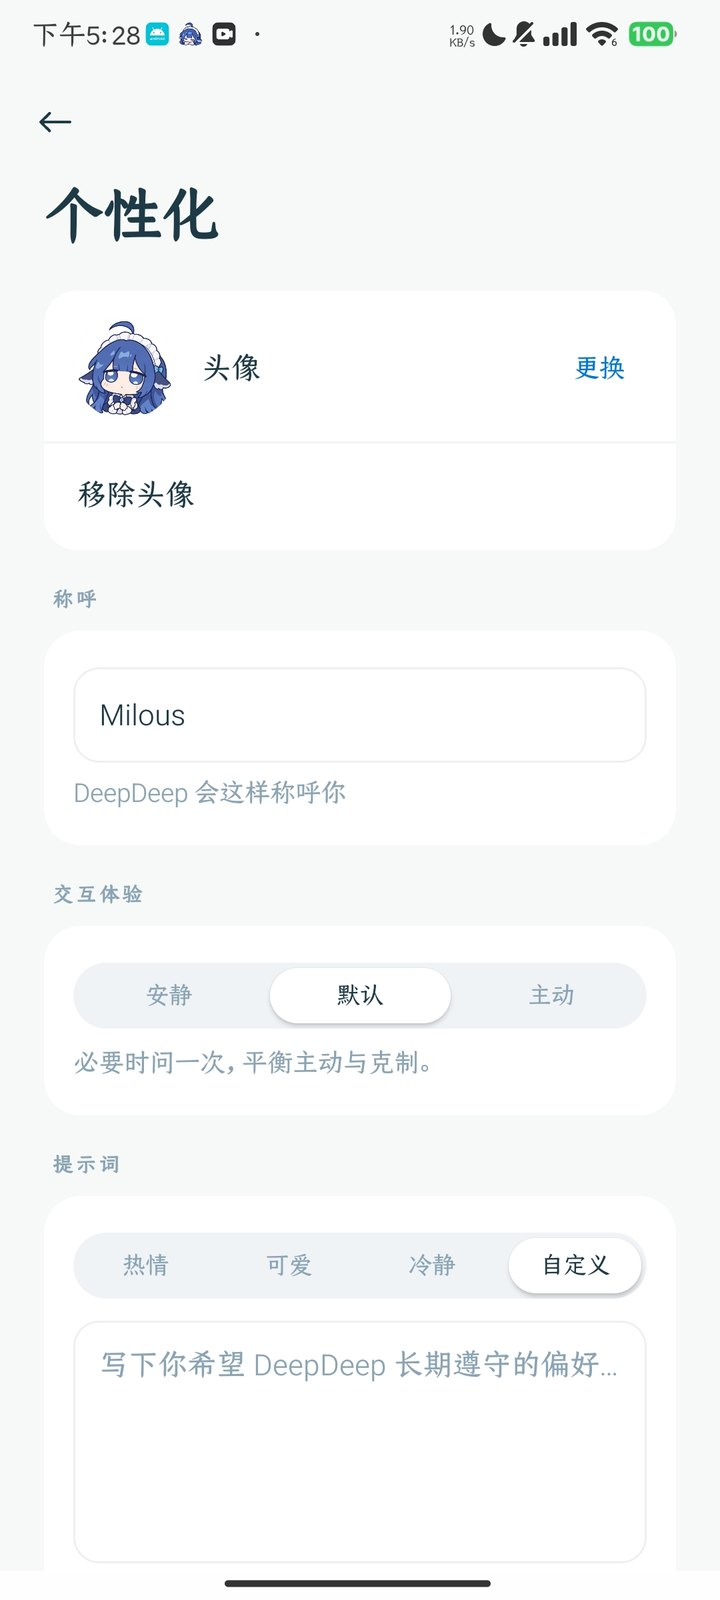
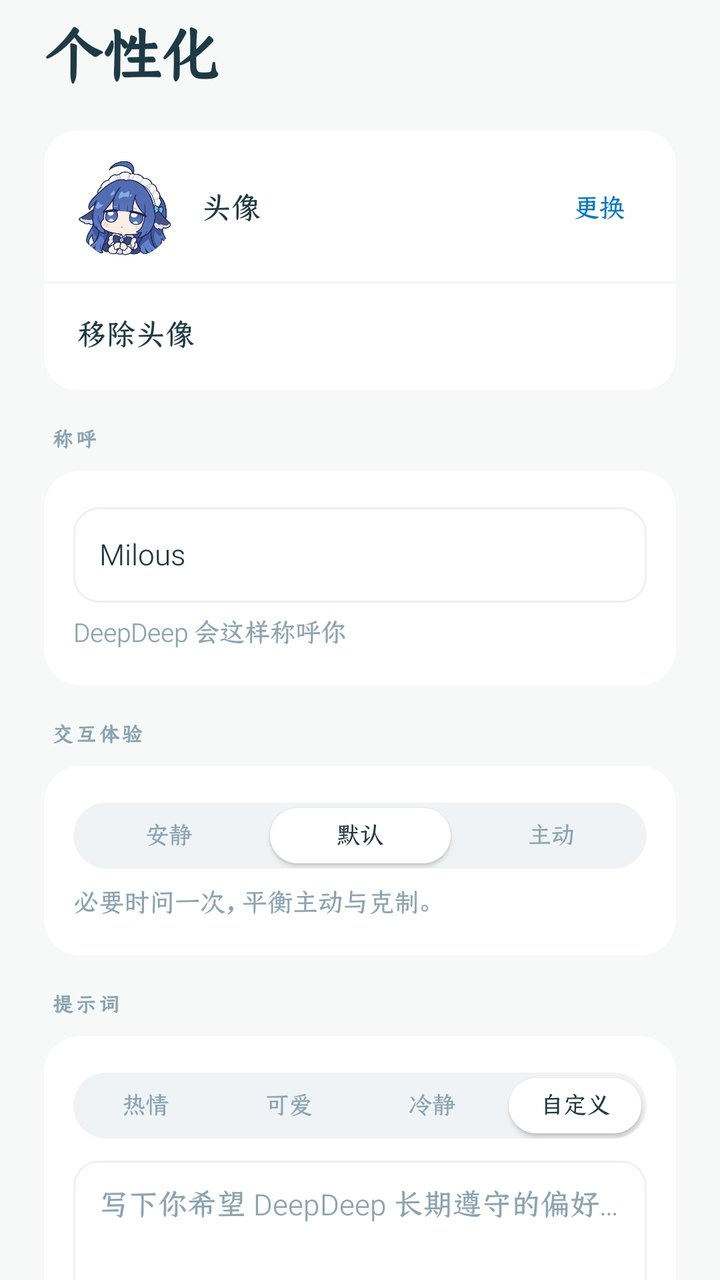
docs: 用视频卡片重排功能介绍

diff --git a/README.md b/README.md
@@ -87,133 +87,78 @@ adb install -r DeepDeep-1.0.0.apk
 
 ## 功能
 
-### Agent 运行时
-
-Agent 循环、工具调度、会话存储与插件宿主均在 App 进程内运行。模型可以调用文件、命令、屏幕、日历、网页等工具；长任务通过 `job_start` 转为后台任务，定时任务使用五段 cron 并绑定当前会话。MCP 工具通过 `tool_search` 按需加载，避免将全部 schema 注入上下文。
-
-- **工具**：读写文件、执行命令、操作屏幕、读写日历、搜索网页。失败会重试，长任务可以转到后台。
-- **技能**：以 `SKILL.md` 描述流程，按需加载；也可以让 Agent 根据任务编写新技能。
-- **自动化**：后台任务、五段 cron 定时任务、会话级目标，以及「帮我盯」这类轮询任务。
-- **MCP**：支持 Streamable HTTP 与 OAuth；工具按需加载。
-- **会话**：会话以 JSONL 保存；支持置顶、归档、重命名与单会话导出。
-
-<p align="center">
-  <a href="https://github.com/Sadami3066/DeepDeep/releases/download/demo-20261109/deepdeep-monitor.mp4"><img src="docs/media/demo/agent-monitor.gif" width="320" alt="DeepDeep 在对话中查询场馆空位并创建后台任务" /></a><br />
-  <sub>在对话中查询场馆空位并创建轮询任务；工具调用、运行状态与结果都保留在会话中。点击图片查看完整视频。</sub>
-</p>
-
-### Android 系统集成
-
-权限分为普通、无线调试与 Root 三档。普通档提供 `bash`、文件与网络；无线调试增加 `adb_shell`，可以操作屏幕和系统设置；Root 档增加 `root_shell`。屏幕操作默认关闭，开启后还需要对应的后端实际可用，`screen_*` 工具才会出现。
-
-Agent 默认在后台虚拟屏中运行应用，不抢占当前主屏；需要操作主屏时，必须显式指定 `target=main`。虚拟屏连续 15 分钟没有 Agent 操作会自动关闭。支付、密码等受保护页面禁止截图，Agent 会把控制权交还给你。
-
 <table>
 <tr>
-<td width="55%" align="center"><a href="https://github.com/Sadami3066/DeepDeep/releases/download/demo-20261109/deepdeep-phone-control.mp4"><img src="docs/media/demo/phone-operation.gif" width="300" alt="DeepDeep 在悬浮窗中操作其他应用" /></a><br /><sub>在悬浮窗中启动虚拟屏、输入文字，并切换到其他应用完成操作。点击查看完整视频。</sub></td>
-<td width="45%" align="center"><img src="docs/media/shots/settings.jpg" width="220" alt="DeepDeep 权限与运行环境设置" /><br /><sub>权限与运行环境</sub></td>
+<td width="33%" valign="top" align="center">
+
+https://github.com/user-attachments/assets/148208b2-11de-4ea5-a3a0-0b0378e6df34
+
+<b>Agent 运行时</b><br />
+<sub>工具、MCP、技能与后台任务在同一个会话中运行。</sub>
+</td>
+<td width="33%" valign="top" align="center">
+
+https://github.com/user-attachments/assets/f20ce2ce-26e9-4f7c-8696-dea81d0a74e1
+
+<b>Android 系统集成</b><br />
+<sub>虚拟屏、悬浮窗、系统助手与三档权限。</sub>
+</td>
+<td width="33%" valign="top" align="center">
+
+https://github.com/user-attachments/assets/fd8eba76-f19e-477a-95c7-8c1d1609198d
+
+<b>小程序</b><br />
+<sub>Agent 现场生成 HTML 应用，可保存数据并添加到桌面。</sub>
+</td>
+</tr>
+<tr>
+<td width="33%" valign="top" align="center">
+
+https://github.com/user-attachments/assets/6783519b-5f93-46d6-ad54-86a8e1350016
+
+<b>万能扫一扫</b><br />
+<sub>同时识别多个二维码，按内容跳转对应应用。</sub>
+</td>
+<td width="33%" valign="top" align="center">
+
+https://github.com/user-attachments/assets/b712257f-c700-43c3-ac4e-6fd829c6e24a
+
+<b>远程连接</b><br />
+<sub>连接电脑上的 DSH，局域网优先，证书固定。</sub>
+</td>
+<td width="33%" valign="top" align="center">
+<img src="docs/media/shots/personalization.jpg" width="100%" alt="DeepDeep 个性化设置" /><br />
+<b>记忆</b><br />
+<sub>分层记忆自动沉淀，可搜索并注入当前会话。</sub>
+</td>
+</tr>
+<tr>
+<td width="33%" valign="top" align="center">
+<img src="docs/media/shots/drawer.jpg" width="100%" alt="DeepDeep 抽屉" /><br />
+<b>插件与市场</b><br />
+<sub>插件、技能与远程 MCP 从市场安装，能力清单在安装前展示。</sub>
+</td>
+<td width="33%" valign="top" align="center">
+<img src="docs/media/shots/settings.jpg" width="100%" alt="DeepDeep 权限与运行环境设置" /><br />
+<b>权限与设置</b><br />
+<sub>普通 / 无线调试 / Root 三档，屏幕操作按需开启。</sub>
+</td>
+<td width="33%" valign="top" align="center">
+<img src="docs/media/shots/providers.jpg" width="100%" alt="DeepDeep 模型服务商列表" /><br />
+<b>模型与对话</b><br />
+<sub>42 家 Provider，API Key 或 OAuth；模型与思考档按会话独立。</sub>
+</td>
 </tr>
 </table>
-
-其他系统集成：
-
-- **本地文件**：使用真实绝对路径读写、预览、分享与交付，不经过中转服务器。
-- **系统助手**：设为默认助手后，长按电源键或使用助手手势唤起，在任意应用上直接交代任务。
-- **悬浮窗**：显示运行进度、待处理提问和交付结果；点开是运行面板，长按可以查看虚拟屏预览。
-- **悬浮语音**：在桌面显示悬浮输入条，支持连续语音、拍照和附件；[观看完整演示](https://github.com/Sadami3066/DeepDeep/releases/download/demo-20261109/deepdeep-overlay-voice.mp4)。
-- **分享接收**：从其他应用分享图片、文件或文本，会插入当前会话或预填输入框。
-- **通知**：后台任务、定时任务和插件消息通过通知投递，点击回到对应会话。
 
 ### Linux 环境
 
-Alpine 通过 proot 运行，不依赖 root。首次在「设置 → Linux 设置」初始化后，可以直接使用 `bash`。常用命令、Node、Python、数据库客户端、办公套件和 Android 编译工具链可以按需安装。
-
-<p align="center">
-  <img src="docs/media/terminal.svg" width="880" alt="在手机内执行构建命令" />
-  <br />
-  <sub>在手机内执行 shell 命令与构建任务。</sub>
-</p>
-
-工作文件默认位于 App 的工作区。文件工具使用绝对路径，工作区只是默认位置，不是访问边界；这样 Linux、插件与 Agent 可以复用同一套路径。
-
-### 模型与对话
-
-支持 42 家 Provider，API Key 与浏览器 OAuth 均可使用。模型和思考档按会话独立，切换会话不会影响其他对话。
-
-对话支持 Markdown、代码块、表格、图片、文件、语音输入与朗读。附件最多 20 个，单文件上限 1 GB；拍照界面可以同时识别多个二维码。输入区右上角的圆环显示上下文占用，点开可以查看输入、输出、缓存与费用；长会话可以用 `/compact` 压缩。
-
-### 插件
-
-插件是 Kotlin 代码模块，实现 `plugin-api` 契约，打包为签名 `.ddp`，由宿主在 App 进程内加载。插件可以提供工具、技能、提示词段、会话 hooks、Compose 页面和消息卡。
-
-```json
-{
-  "id": "com.example.myplugin",
-  "version": "1.0.0",
-  "entryClass": "com.example.MyPlugin",
-  "capabilities": ["linux", "files", "network", "ui"]
-}
-```
-
-清单中的 `capabilities` 声明插件实际使用的宿主服务，当前共 18 项。安装确认页会展示名称、版本、体积、sha256、发布者、能力清单和将提供的工具/技能/页面；宿主只注入声明过的服务。更新必须使用同一发布者密钥。新版本在无忙碌会话时立即激活，忙碌会话结束后自动生效，不需要重启 App。
-
-插件与 App 同进程、同权限，没有沙箱。只安装可信来源的 `.ddp`。
-
-### 记忆
-
-记忆按用途分层，不把所有历史都放进上下文：
-
-| 区域 | 内容 |
-|---|---|
-| **用户与我** | 身份、偏好、习惯、长期约定 |
-| **当下与将来** | 正在处理的任务、计划与承诺 |
-| **经验与教训** | 已解决的问题、可复用的方法 |
-| **日记 / 月 / 年** | 原始记录、月度汇总、年度回看 |
-
-会话结束时自动沉淀，按天和按月汇总；需要时可以搜索，或将摘要注入当前会话。
-
-<p align="center">
-  <img src="docs/media/shots/personalization.jpg" width="220" alt="DeepDeep 个性化设置" />
-  <br />
-  <sub>称呼、交互风格与头像保存在本机。</sub>
-</p>
-
-### 小程序与常用工具
-
-**小程序**是 Agent 根据需求生成的 HTML/CSS/JS 页面。页面通过 bridge 读写自己的 SQLite 数据，也可以调用 `app.agent.*` 编排一次性 Agent；完成后可以添加到桌面，点击图标直接打开。
-
-**万能扫一扫**在相机中同时识别多个二维码，按内容路由到对应应用的扫一扫、浏览器或剪贴板。
-
-**帮我盯**让 Agent 启动后台任务，轮询网页或接口；条件满足后自动执行下一步，例如查询场馆空位并在出现空位时下单。
-
 <table>
 <tr>
-<td width="33%" valign="top" align="center"><a href="https://github.com/Sadami3066/DeepDeep/releases/download/demo-20261109/deepdeep-miniapp.mp4"><img src="docs/media/demo/miniapp.gif" width="210" alt="DeepDeep 生成打卡待办小程序" /></a><br /><b>小程序</b><br /><sub>对话生成「打卡待办」，添加到桌面后直接使用。点击查看完整视频。</sub></td>
-<td width="33%" valign="top" align="center"><a href="https://github.com/Sadami3066/DeepDeep/releases/download/demo-20261109/deepdeep-scan.mp4"><img src="docs/media/demo/scan.gif" width="210" alt="DeepDeep 识别二维码并跳转对应应用" /></a><br /><b>万能扫一扫</b><br /><sub>相机识别二维码，按内容进入对应应用的扫一扫。点击查看完整视频。</sub></td>
-<td width="33%" valign="top" align="center"><a href="https://github.com/Sadami3066/DeepDeep/releases/download/demo-20261109/deepdeep-monitor.mp4"><img src="docs/media/shots/monitor.jpg" width="210" alt="DeepDeep 后台任务与工具调用" /></a><br /><b>帮我盯</b><br /><sub>轮询网页或接口，条件满足后执行下一步。点击查看完整视频。</sub></td>
+<td width="58%"><img src="docs/media/terminal.svg" width="100%" alt="在手机内执行构建命令" /></td>
+<td width="42%" valign="middle">Alpine 通过 proot 运行，不依赖 root。初始化后可以直接使用 <code>bash</code>，并按需安装 Node、Python、数据库客户端和 Android 编译工具链。工作文件默认位于 App 工作区；文件工具使用绝对路径。</td>
 </tr>
 </table>
-
-### 远程连接
-
-抽屉中的「远程连接」通过 `dsh-mobile` 连接电脑上的 DSH。扫码或粘贴配对链接后，首次连接会固定电脑证书，之后只信任同一台电脑。局域网优先，不通时自动尝试远程入口；多台电脑按 `installationId` 合并成一行，一次连接一台。连接页就是电脑上的 DSH 手机版，会话、消息和工作区与电脑一致。
-
-<p align="center">
-  <a href="https://github.com/Sadami3066/DeepDeep/releases/download/demo-20261109/deepdeep-remote.mp4"><img src="docs/media/demo/remote.gif" width="340" alt="DeepDeep 远程连接电脑上的 DSH" /></a><br />
-  <sub>从手机连接电脑上的 DSH；首次配对固定证书。点击图片查看完整视频。</sub>
-</p>
-
-### 市场
-
-插件、技能与远程 MCP 可以从 [DeepDeep 市场](https://github.com/Sadami3066/deepdeep-market) 获取。索引使用 ECDSA 签名，制品会核对 sha256；条目分为插件、技能、MCP 三类。
-
-App 不预装插件。安装后的插件与技能会出现在抽屉和插件页；卸载会移除插件文件、登录信息与技能。
-
-<p align="center">
-  <img src="docs/media/shots/drawer.jpg" width="220" alt="DeepDeep 抽屉中的应用入口" />
-  <br />
-  <sub>插件、技能、记忆与远程连接等入口集中在抽屉中。</sub>
-</p>
 
 ## 设计
 

diff --git a/docs/media/SHOTS.md b/docs/media/SHOTS.md
@@ -1,21 +1,14 @@
 # README 媒体资产
 
-README 使用两类媒体：仓库内的压缩预览，以及 GitHub Release 中的完整视频。仓库只提交预览与截图，不提交原始录屏。
+README 直接使用 GitHub user-attachments 的视频链接。单独一行裸链接会被 GitHub 渲染成播放器；不要再写 `<video>` 标签，README 的 HTML sanitizer 会把它整个过滤掉。
 
 ## 目录
 
 ```text
 docs/media/
-├── demo/                    # README 内联 GIF
-│   ├── agent-monitor.gif
-│   ├── miniapp.gif
-│   ├── phone-operation.gif
-│   ├── remote.gif
-│   └── scan.gif
-├── shots/                   # 实机截图与静态封面
+├── shots/                   # 实机截图
 │   ├── drawer.jpg
 │   ├── home.jpg
-│   ├── monitor.jpg
 │   ├── personalization.jpg
 │   ├── providers.jpg
 │   └── settings.jpg
@@ -24,86 +17,86 @@ docs/media/
 └── terminal.svg
 ```
 
-完整视频：
+截图统一为 720×1280，JPEG q86，单张 27–58KB。
+
+## 视频
+
+视频放在 GitHub user-attachments，README 里使用裸链接：
+
+| 名称 | 内容 | 链接 |
+|---|---|---|
+| `deepdeep-monitor.mp4` | Agent 轮询场馆 | https://github.com/user-attachments/assets/148208b2-11de-4ea5-a3a0-0b0378e6df34 |
+| `deepdeep-phone-control.mp4` | 悬浮窗操作其他应用 | https://github.com/user-attachments/assets/f20ce2ce-26e9-4f7c-8696-dea81d0a74e1 |
+| `deepdeep-miniapp.mp4` | 生成打卡待办小程序 | https://github.com/user-attachments/assets/fd8eba76-f19e-477a-95c7-8c1d1609198d |
+| `deepdeep-scan.mp4` | 扫码与跳转 | https://github.com/user-attachments/assets/6783519b-5f93-46d6-ad54-86a8e1350016 |
+| `deepdeep-remote.mp4` | 连接电脑 DSH | https://github.com/user-attachments/assets/b712257f-c700-43c3-ac4e-6fd829c6e24a |
+| `deepdeep-overlay-voice.mp4` | 悬浮语音输入（备用） | https://github.com/user-attachments/assets/32ce705b-dd43-4677-8509-ea7ad7fcf49b |
+
+这些是 720×1280、H.264、无音轨的压缩版，单个 0.3–1.8MB。原始录屏保留在 Release：
 
 ```text
 https://github.com/Sadami3066/DeepDeep/releases/tag/demo-20261109
 ```
 
-## 预览文件
+## 截图
 
-| 文件 | 来源 | 片段 | 规格 | 用途 |
-|---|---|---|---|---|
-| `demo/agent-monitor.gif` | `帮我盯着.mp4` | 0–12s | 360 宽，8fps，96 色，623KB | Agent 运行时 |
-| `demo/phone-operation.gif` | `手机操作.mp4` | 0–38s | 360 宽，6fps，80 色，1.5MB | Android 系统集成 |
-| `demo/miniapp.gif` | `DeepDeep小程序.mp4` | 0–12s | 360 宽，8fps，96 色，901KB | 小程序 |
-| `demo/scan.gif` | `统一扫一扫.mp4` | 0–12s | 360 宽，6fps，64 色，1.9MB | 万能扫一扫 |
-| `demo/remote.gif` | `远程连接.mp4` | 0–14s | 360 宽，8fps，96 色，522KB | 远程连接 |
-| `shots/home.jpg` | `主界面.jpg` | — | 720×1600，48KB | 预览 |
-| `shots/drawer.jpg` | `抽屉.jpg` | — | 720×1600，48KB | 预览、市场 |
-| `shots/providers.jpg` | `42+服务商.jpg` | — | 720×1600，74KB | 预览 |
-| `shots/settings.jpg` | `设置页.jpg` | — | 720×1600，59KB | 权限与运行环境 |
-| `shots/personalization.jpg` | `个性化.jpg` | — | 720×1600，59KB | 记忆 |
-| `shots/monitor.jpg` | `帮我盯着.mp4` 22.5s | — | 720×1600，55KB | 帮我盯卡片 |
-
-截图统一缩放到 720×1600，JPEG q86。GIF 保留手机原始比例，不裁状态栏。
-
-## 完整视频
-
-Release 资产使用英文文件名：
-
-| 资产 | 原文件 |
+| 文件 | 用途 |
 |---|---|
-| `deepdeep-monitor.mp4` | `帮我盯着.mp4` |
-| `deepdeep-phone-control.mp4` | `手机操作.mp4` |
-| `deepdeep-miniapp.mp4` | `DeepDeep小程序.mp4` |
-| `deepdeep-overlay-voice.mp4` | `浮层浮窗主界面三态语音输入交互.mp4` |
-| `deepdeep-scan.mp4` | `统一扫一扫.mp4` |
-| `deepdeep-remote.mp4` | `远程连接.mp4` |
-
-README 中的 GIF 点击后指向对应 Release 资产。
+| `shots/home.jpg` | README 预览：主界面 |
+| `shots/drawer.jpg` | README 预览、功能卡片：抽屉与插件入口 |
+| `shots/providers.jpg` | README 预览、功能卡片：模型服务商 |
+| `shots/settings.jpg` | 功能卡片：权限与运行环境 |
+| `shots/personalization.jpg` | 功能卡片：记忆与个性化 |
 
 ## 重新生成
 
-截图（需要 Pillow）：
+截图（Pillow）：
 
 ```bash
-python3 - <<'EOF'
+python3 - <<'PYCODE'
 from PIL import Image
-import glob, os
-for p in glob.glob('UI_screenshot/*.jpg'):
-    im = Image.open(p).convert('RGB')
-    im.thumbnail((720, 1600), Image.LANCZOS)
-    im.save('docs/media/shots/' + os.path.splitext(os.path.basename(p))[0] + '.jpg', quality=86, optimize=True)
-EOF
+for src, dst in [
+    ('主界面.jpg', 'home.jpg'),
+    ('抽屉.jpg', 'drawer.jpg'),
+    ('42+服务商.jpg', 'providers.jpg'),
+    ('设置页.jpg', 'settings.jpg'),
+    ('个性化.jpg', 'personalization.jpg'),
+]:
+    im = Image.open(src).convert('RGB')
+    im = im.crop((0, 240, 1080, 2160)).resize((720, 1280), Image.LANCZOS)
+    im.save('docs/media/shots/' + dst, quality=86, optimize=True)
+PYCODE
 ```
 
-GIF（需要 ffmpeg）：
+视频（ffmpeg，输出 720×1280、无音轨、faststart）：
 
 ```bash
-ffmpeg -ss 0 -t 12 -i 帮我盯着.mp4 \
-  -vf "fps=8,scale=360:-1:flags=lanczos,split[s0][s1];[s0]palettegen=max_colors=96[p];[s1][p]paletteuse=dither=bayer" \
-  -loop 0 docs/media/demo/agent-monitor.gif
-
-ffmpeg -ss 0 -t 38 -i 手机操作.mp4 \
-  -vf "fps=6,scale=360:-1:flags=lanczos,split[s0][s1];[s0]palettegen=max_colors=80[p];[s1][p]paletteuse=dither=bayer" \
-  -loop 0 docs/media/demo/phone-operation.gif
-
-ffmpeg -ss 0 -t 12 -i DeepDeep小程序.mp4 \
-  -vf "fps=8,scale=360:-1:flags=lanczos,split[s0][s1];[s0]palettegen=max_colors=96[p];[s1][p]paletteuse=dither=bayer" \
-  -loop 0 docs/media/demo/miniapp.gif
-
-ffmpeg -ss 0 -t 12 -i 统一扫一扫.mp4 \
-  -vf "fps=6,scale=360:-1:flags=lanczos,split[s0][s1];[s0]palettegen=max_colors=64[p];[s1][p]paletteuse=dither=bayer" \
-  -loop 0 docs/media/demo/scan.gif
-
-ffmpeg -ss 0 -t 14 -i 远程连接.mp4 \
-  -vf "fps=8,scale=360:-1:flags=lanczos,split[s0][s1];[s0]palettegen=max_colors=96[p];[s1][p]paletteuse=dither=bayer" \
-  -loop 0 docs/media/demo/remote.gif
+ffmpeg -i 帮我盯着.mp4 -vf scale=720:1280:flags=lanczos \
+  -c:v libx264 -crf 26 -preset medium -pix_fmt yuv420p -an -movflags +faststart \
+  deepdeep-monitor.mp4
 ```
+
+`DeepDeep小程序.mp4` 先裁成 9:16 再缩放：
+
+```bash
+ffmpeg -i DeepDeep小程序.mp4 -vf "crop=1080:1920:0:240,scale=720:1280:flags=lanczos" \
+  -c:v libx264 -crf 26 -preset medium -pix_fmt yuv420p -an -movflags +faststart \
+  deepdeep-miniapp.mp4
+```
+
+上传（需要仓库写权限）：
+
+```bash
+curl -X POST \
+  "https://uploads.github.com/user-attachments/assets?name=deepdeep-monitor.mp4&content_type=video/mp4&repository_id=1429875049" \
+  -H "Authorization: Bearer <token>" \
+  --data-binary @deepdeep-monitor.mp4
+```
+
+返回的 `url` 直接放进 README 的单元格或段落，单独一行。
 
 ## 首屏
 
-`hero-banner.svg` 是当前占位图。新的首屏准备好后，按 16:9 输出（建议 1200×675 或 1600×900），放到 `docs/media/hero.gif` 或 `docs/media/hero.png`，替换 README 中的引用即可。
+`hero-banner.svg` 是当前占位图。新的首屏按 16:9 输出（建议 1200×675 或 1600×900），放到 `docs/media/hero.gif` 或 `docs/media/hero.png`，替换 README 引用即可。
 
 首屏不承担功能说明；标题、定位和快速开始已经在上方，图片只需要呈现一个真实使用场景。
